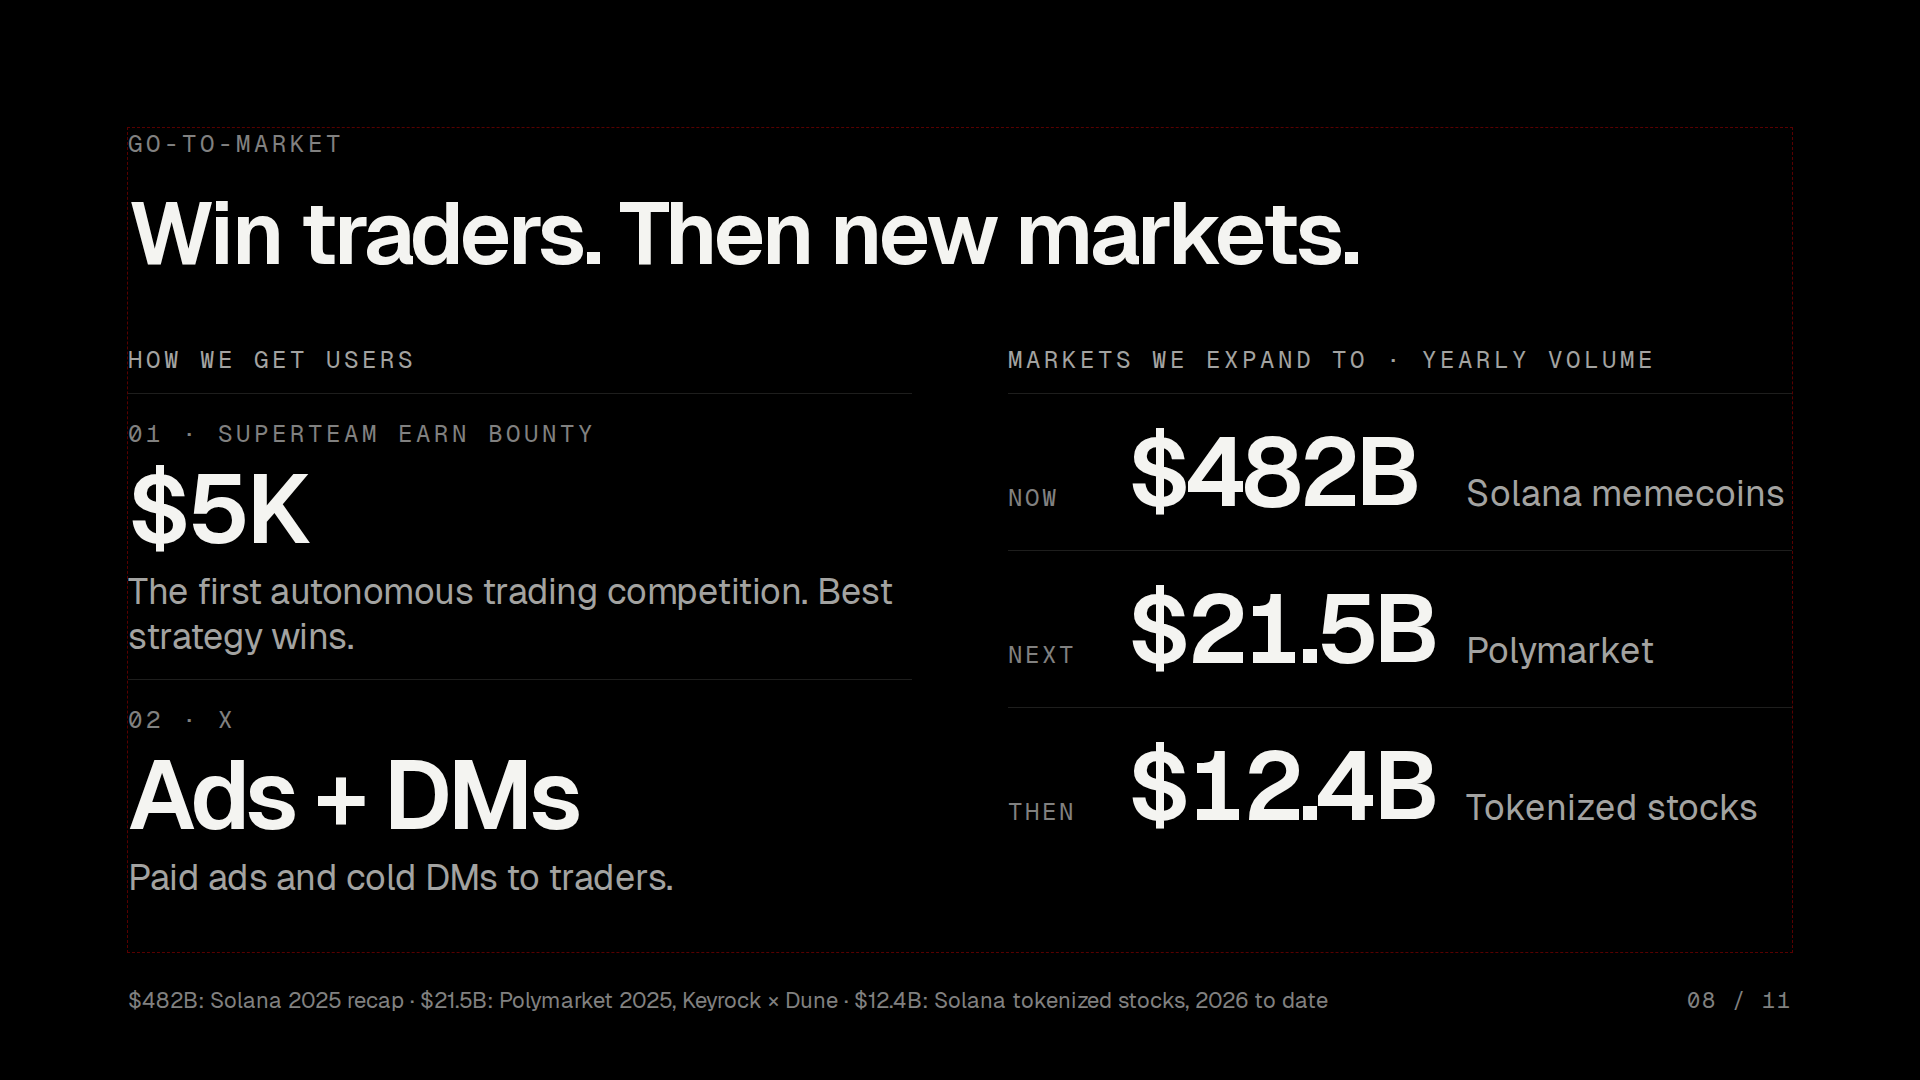
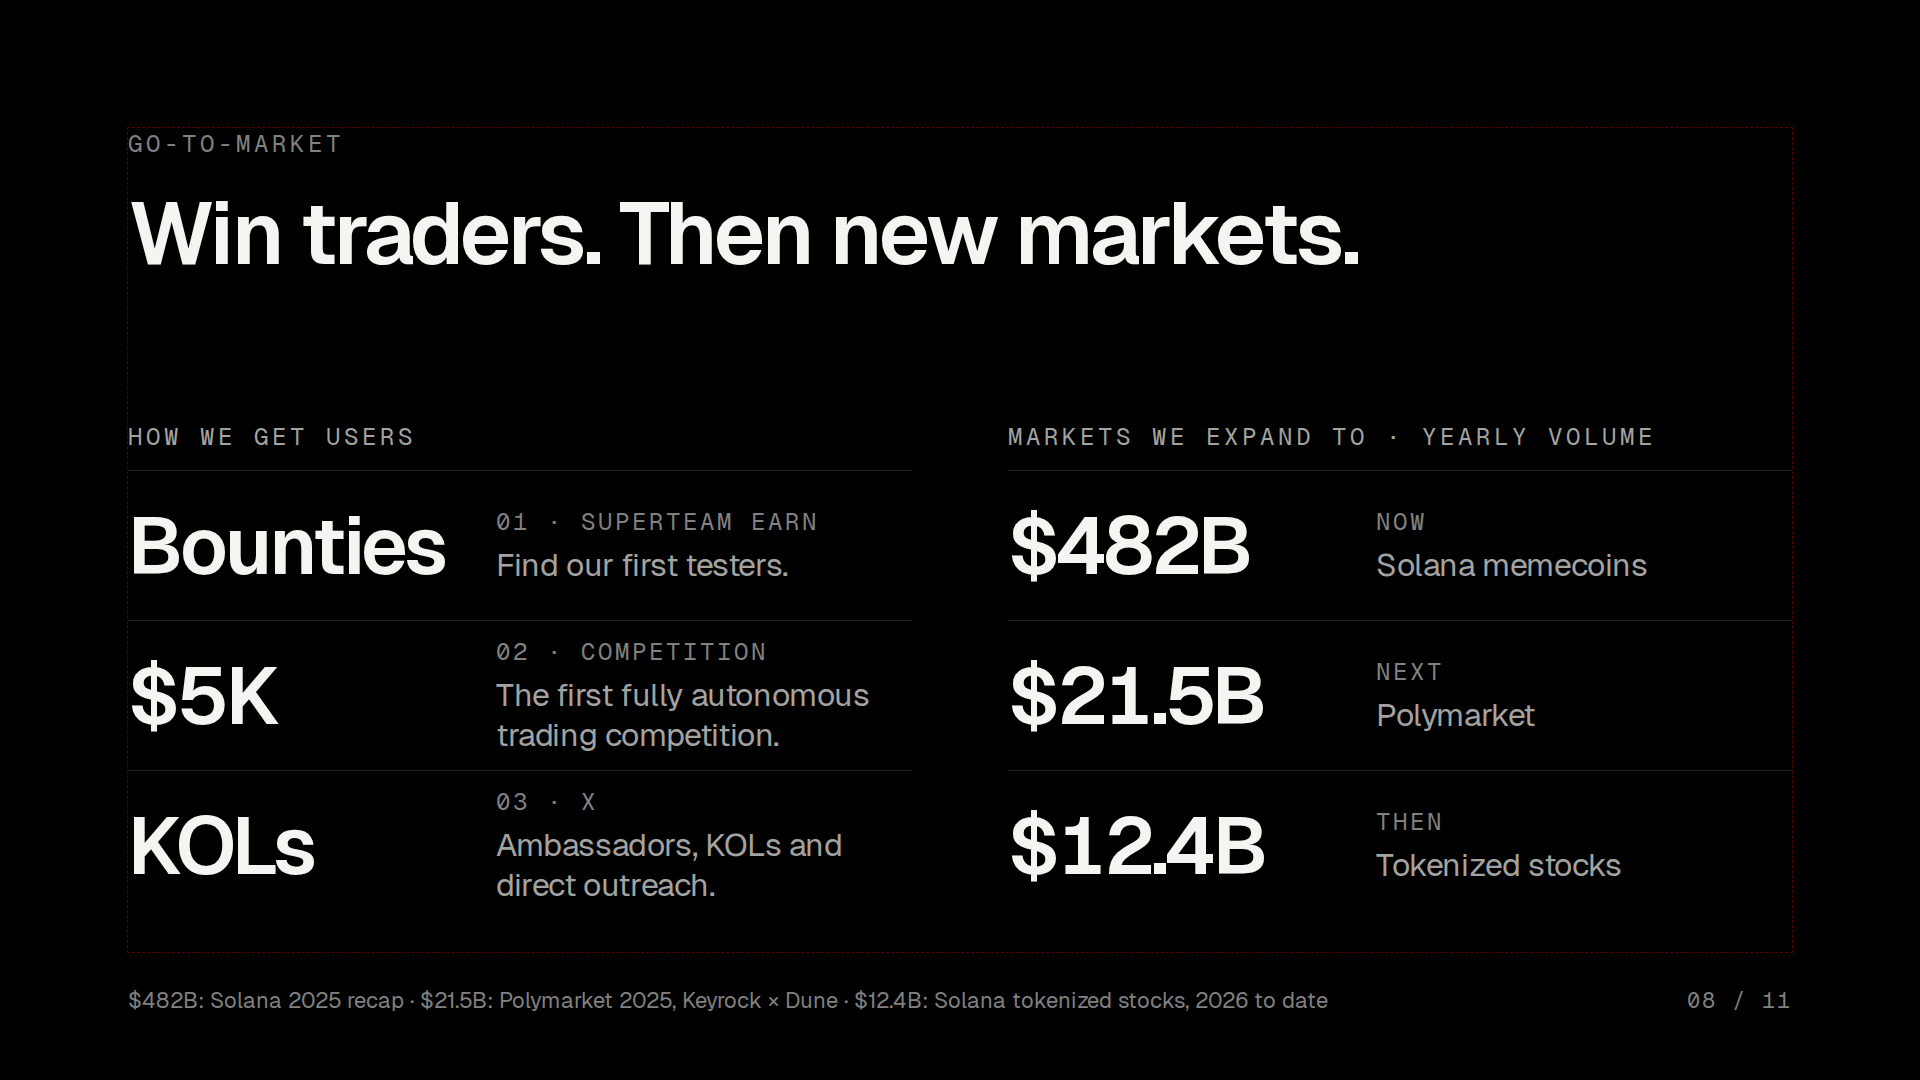
docs(pitch): GTM lists three ways to get users (Superteam Earn bounties, $5K competition, X)
Claude-Session: https://claude.ai/code/session_01C63X7bmiYFRUvieQLSha7b

diff --git a/docs/pitch/deck/build_simple_slides.py b/docs/pitch/deck/build_simple_slides.py
@@ -59,22 +59,25 @@ SLIDES = {
 
 def gtm():
     def row(k, big, tag):
-        return (f'      <div style="display:flex; flex-direction:column; gap:12px; padding:24px 0 20px; border-top:1px solid {HAIR}">\n'
-                f'        <p style="{MONO}; font-size:24px; letter-spacing:4px; text-transform:uppercase; color:{DIM}">{e(k)}</p>\n'
-                f'        <p style="{SANS}; font-size:96px; font-weight:600; line-height:1; letter-spacing:-4px; white-space:nowrap; color:{FG}">{e(big)}</p>\n'
-                f'        <p style="{SANS}; font-size:36px; line-height:1.25; letter-spacing:-0.5px; color:{MID}">{e(tag)}</p>\n'
-                f'      </div>\n')
+        return (f'      <div style="height:150px; display:flex; flex-direction:row; gap:28px; align-items:center; border-top:1px solid {HAIR}">\n'
+                f'        <p style="width:340px; {SANS}; font-size:80px; font-weight:600; line-height:1; letter-spacing:-3px; white-space:nowrap; color:{FG}">{e(big)}</p>\n'
+                f'        <div style="display:flex; flex-direction:column; gap:8px; flex:1">\n'
+                f'          <p style="{MONO}; font-size:24px; letter-spacing:3px; text-transform:uppercase; color:{DIM}">{e(k)}</p>\n'
+                f'          <p style="{SANS}; font-size:32px; line-height:1.25; letter-spacing:-0.4px; color:{MID}">{e(tag)}</p>\n'
+                f'        </div>\n      </div>\n')
 
     def mkt(k, num, tag):
-        return (f'      <div style="display:flex; flex-direction:row; gap:28px; align-items:baseline; padding:30px 0; border-top:1px solid {HAIR}">\n'
-                f'        <p style="width:92px; {MONO}; font-size:24px; letter-spacing:3px; text-transform:uppercase; color:{DIM}">{e(k)}</p>\n'
-                f'        <p style="width:310px; {SANS}; font-size:96px; font-weight:600; line-height:1; letter-spacing:-4px; font-variant-numeric:tabular-nums; color:{FG}">{e(num)}</p>\n'
-                f'        <p style="flex:1; {SANS}; font-size:36px; line-height:1.25; color:{MID}">{e(tag)}</p>\n'
-                f'      </div>\n')
+        return (f'      <div style="height:150px; display:flex; flex-direction:row; gap:28px; align-items:center; border-top:1px solid {HAIR}">\n'
+                f'        <p style="width:340px; {SANS}; font-size:80px; font-weight:600; line-height:1; letter-spacing:-3px; white-space:nowrap; font-variant-numeric:tabular-nums; color:{FG}">{e(num)}</p>\n'
+                f'        <div style="display:flex; flex-direction:column; gap:8px; flex:1">\n'
+                f'          <p style="{MONO}; font-size:24px; letter-spacing:3px; text-transform:uppercase; color:{DIM}">{e(k)}</p>\n'
+                f'          <p style="{SANS}; font-size:32px; line-height:1.25; letter-spacing:-0.4px; color:{MID}">{e(tag)}</p>\n'
+                f'        </div>\n      </div>\n')
     head = lambda t: f'      <p style="{MONO}; font-size:24px; letter-spacing:4px; text-transform:uppercase; color:{MID}; padding:0 0 18px">{e(t)}</p>\n'
     left = ('    <div style="display:flex; flex-direction:column; flex:1">\n' + head("How we get users")
-            + row("01 · Superteam Earn bounty", "$5K", "The first autonomous trading competition. Best strategy wins.")
-            + row("02 · X", "Ads + DMs", "Paid ads and cold DMs to traders.")
+            + row("01 · Superteam Earn", "Bounties", "Find our first testers.")
+            + row("02 · Competition", "$5K", "The first fully autonomous trading competition.")
+            + row("03 · X", "KOLs", "Ambassadors, KOLs and direct outreach.")
             + '    </div>\n')
     right = ('    <div style="display:flex; flex-direction:column; flex:1">\n' + head("Markets we expand to · yearly volume")
              + mkt("Now", "$482B", "Solana memecoins")

diff --git a/docs/pitch/pitch-3min.md b/docs/pitch/pitch-3min.md
@@ -30,7 +30,7 @@ Who pays? Traders already do: nine hundred forty million dollars last year to So
 It's a crowded space, and these are good teams, but each covers a piece. HeyElsa and Ask Gina are mostly chat with execution. Fere runs preset bots you can't configure. Senpi and Minara run perps strategies on bundled data, with no rug veto. Tocker does all five: it runs on its own 24/7, under your rules and guardrails, vetoes rugs in code, picks and pays for its data over x402, and pays for its own model in USDC.
 
 ## gtm
-We get users two ways. First, a Superteam Earn bounty to test it: the first autonomous trading competition, five thousand dollars, best strategy wins. Second, paid ads and cold DMs to traders on X. We start with Solana memecoins, four hundred eighty-two billion dollars traded last year, then Polymarket and tokenized stocks.
+We get users three ways. Bounties on Superteam Earn find our first testers. Then the first fully autonomous trading competition, five thousand dollars in prizes, best strategy wins. And X: KOLs, ambassadors and direct outreach. We start with Solana memecoins, four hundred eighty-two billion dollars traded last year, then Polymarket and tokenized stocks.
 
 ## traction
 Where are we? Eleven users in open beta, each paying about two dollars a day in fees, so about sixty dollars a month. At that rate, three hundred thirty-four users gets us to twenty thousand dollars of MRR. The competition and X are how we get there.
